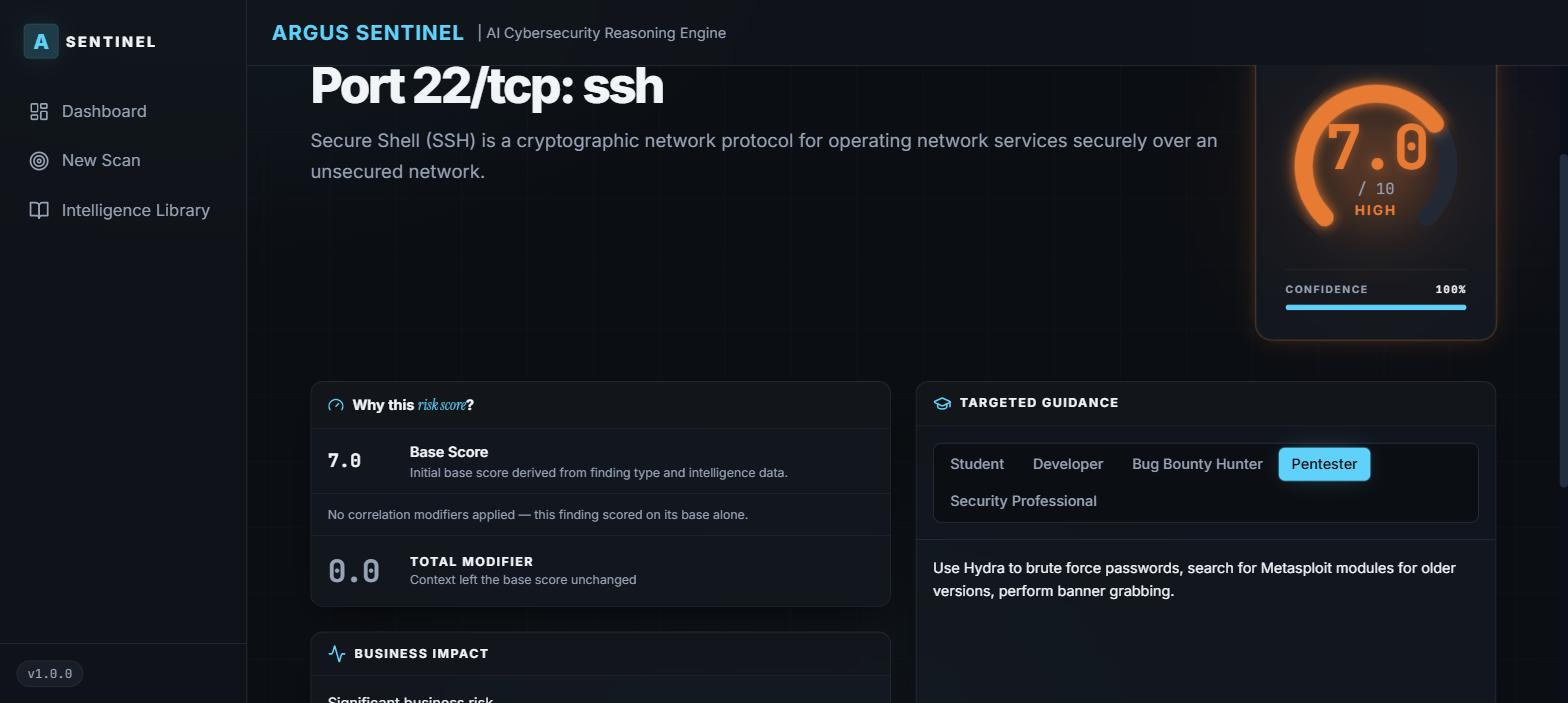
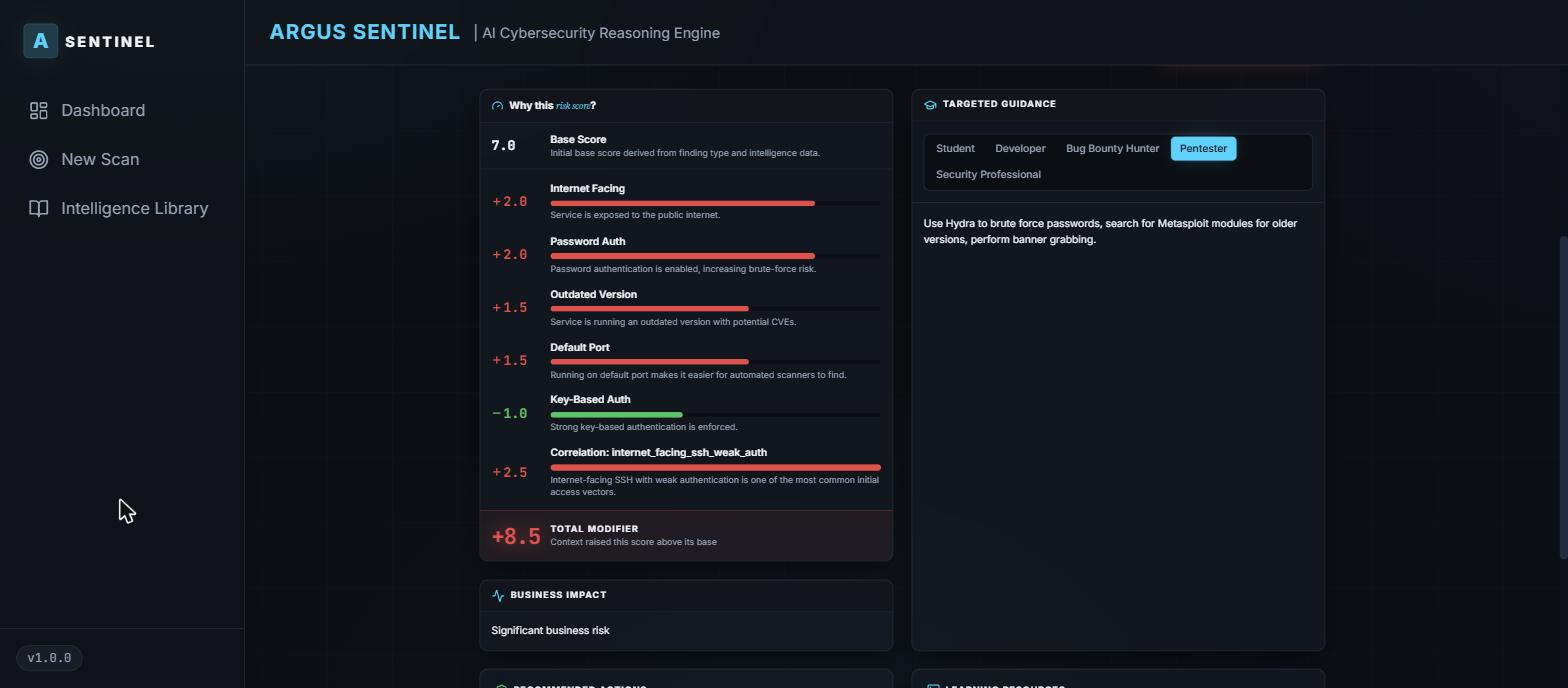
fix: correlation modifiers now fire and persist on real scans
- scan_tasks: pass a copy of reasoning_breakdown to apply_modifiers.
  Appending to the ORM's own list and reassigning the same object was
  invisible to SQLAlchemy's JSON change detection, so correlation rows
  were silently dropped even when a rule fired.
- open_database_no_auth: require the database finding itself to be
  unauthenticated (was any finding scan-wide, e.g. anonymous FTP), and
  have nmap's redis-info script supply that signal.
- Remove firewall_mitigates_exposure (nmap runs --open, so "filtered" is
  never reported) and waf_mitigates_web_vulns (nuclei's tag scope never
  runs xss/sqli templates) - both structurally unreachable.
- Add a Postgres-backed test that feeds real captured tool output through
  the real scanner parsers, scoring and storage, and checks every
  remaining rule produces a stored modifier.
- README: per-rule reachability table; persona screenshots now show a
  real scanme.nmap.org SSH finding with its correlation modifier.

diff --git a/backend/tests/test_scan_tasks.py b/backend/tests/test_scan_tasks.py
@@ -223,3 +223,103 @@ def test_prune_demo_scans_is_a_noop_with_nothing_expired(clean_db):
 
     assert result == {"pruned": 0}
     assert _fetch_scan(sync_engine, fresh_demo_id) is not None
+
+
+def _fetch_findings(sync_engine, scan_id):
+    with sync_engine.begin() as conn:
+        rows = conn.execute(
+            text("SELECT title, risk_score, correlation_modifier, final_risk_score, reasoning_breakdown "
+                 "FROM findings WHERE scan_id = :id"),
+            {"id": scan_id},
+        ).mappings().all()
+    return {r["title"]: r for r in rows}
+
+
+def test_correlation_modifier_is_persisted(clean_db):
+    """Plumbing guard: a finding that must trigger a correlation rule has
+    that rule's modifier in its stored correlation_modifier, final_risk_score
+    AND reasoning_breakdown — i.e. what the API and frontend actually read."""
+    from app.tasks.scan_tasks import run_scan
+
+    scan_id = _insert_pending_scan(clean_db["sync_engine"])
+    admin = _no_finding("httpx", "technology", "Live Host: http://example.com/admin",
+                        {"url": "http://example.com/admin", "admin_panel_exposed": True})
+
+    with patch("app.scanners.subfinder.run", new=AsyncMock(return_value=([], {"status": "success", "detail": None}))), \
+         patch("app.scanners.httpx.run", new=AsyncMock(return_value=([admin], {"status": "success", "detail": None}))), \
+         patch("app.scanners.nmap.run", new=AsyncMock(return_value=([], {"status": "success", "detail": None}))), \
+         patch("app.scanners.nuclei.run", new=AsyncMock(return_value=([], {"status": "success", "detail": None}))):
+        run_scan(scan_id, "example.com", "student")
+
+    row = _fetch_findings(clean_db["sync_engine"], scan_id)["Live Host: http://example.com/admin"]
+    assert row["correlation_modifier"] == 1.5
+    assert row["final_risk_score"] == row["risk_score"] + 1.5
+    assert any(b["label"] == "Correlation: admin_panel_exposed" for b in row["reasoning_breakdown"])
+
+
+# Real tool output captured from live runs (2026-09-23): the SSH script output
+# and nuclei record are verbatim from a real scanme.nmap.org scan, the
+# redis-info output is verbatim from nmap against an auth-less Redis.
+_REAL_NMAP_XML = """<?xml version="1.0"?>
+<nmaprun><host><status state="up"/>
+<address addr="45.33.32.156" addrtype="ipv4"/>
+<ports>
+<port protocol="tcp" portid="22"><state state="open"/>
+<service name="ssh" product="OpenSSH" version="6.6.1p1 Ubuntu 2ubuntu2.13"/>
+<script id="ssh-auth-methods" output="&#xa;  Supported authentication methods: &#xa;    publickey&#xa;    password"/></port>
+<port protocol="tcp" portid="80"><state state="open"/>
+<service name="http" product="Apache httpd" version="2.4.7"/></port>
+<port protocol="tcp" portid="6379"><state state="open"/>
+<service name="redis" product="Redis key-value store" version="7.4.9"/>
+<script id="redis-info" output="&#xa;  Version: 7.4.9&#xa;  Operating System: Linux 6.6.114.1-microsoft-standard-WSL2 x86_64&#xa;  Architecture: 64 bits&#xa;  Role: master"/></port>
+</ports></host></nmaprun>"""
+
+_REAL_NUCLEI_LINE = (
+    '{"template-id": "apache-mod-negotiation-listing", "info": {"name": "Apache mod_negotiation - Pseudo Directory Listing", '
+    '"tags": ["apache", "misconfig", "exposure", "mod-negotiation"], "severity": "low"}, "type": "http", '
+    '"host": "example.com", "matched-at": "http://example.com/index", "ip": "45.33.32.156"}'
+)
+
+_HTTPX_LINES = "\n".join([
+    '{"url": "http://example.com", "title": "Go ahead and ScanMe!", "status_code": 200, "tech": ["Apache HTTP Server:2.4.7", "Ubuntu"]}',
+    '{"url": "http://example.com:8080", "title": "Admin Login", "status_code": 200, "tech": ["Apache HTTP Server:2.4.7"]}',
+])
+
+
+def _subprocess_output(stdout):
+    return AsyncMock(return_value=(stdout, "", {"status": "success", "detail": None}))
+
+
+def test_every_correlation_rule_fires_through_the_real_pipeline(clean_db, caplog):
+    """Real scanner parsers + processor + correlation + DB, with only the
+    tool subprocesses and DNS lookups faked. Every remaining rule must come
+    out the other end as a stored, nonzero modifier (or, for the scan-wide
+    multiple_high_severity rule, in the engine's matched-rules log line)."""
+    import logging
+    from app.tasks.scan_tasks import run_scan
+
+    scan_id = _insert_pending_scan(clean_db["sync_engine"])
+    dns_a = {"legacy-app.herokuapp.com": None}  # CNAME target gone -> dangling
+    with patch("app.scanners.subfinder.run_subprocess", new=_subprocess_output("legacy.example.com\n")), \
+         patch("app.scanners.subfinder._resolve_a", side_effect=lambda h: dns_a.get(h)), \
+         patch("app.scanners.subfinder._resolve_cname",
+               side_effect=lambda h: "legacy-app.herokuapp.com" if h == "legacy.example.com" else None), \
+         patch("app.scanners.httpx.run_subprocess", new=_subprocess_output(_HTTPX_LINES)), \
+         patch("app.scanners.nmap.run_subprocess", new=_subprocess_output(_REAL_NMAP_XML)), \
+         patch("app.scanners.nuclei.run_subprocess", new=_subprocess_output(_REAL_NUCLEI_LINE)), \
+         caplog.at_level(logging.INFO, logger="app.tasks.scan_tasks"):
+        run_scan(scan_id, "example.com", "student")
+
+    rows = _fetch_findings(clean_db["sync_engine"], scan_id)
+
+    def corr(title):
+        return {b["label"].removeprefix("Correlation: "): b["modifier"]
+                for b in rows[title]["reasoning_breakdown"] if b["label"].startswith("Correlation: ")}
+
+    assert corr("Port 6379/tcp: redis") == {"open_database_no_auth": 3.0}
+    assert corr("Port 22/tcp: ssh") == {"internet_facing_ssh_weak_auth": 2.5}
+    assert corr("Apache mod_negotiation - Pseudo Directory Listing: http://example.com/index") == {"outdated_stack_with_vuln": 2.0}
+    assert corr("Live Host: http://example.com:8080") == {"admin_panel_exposed": 1.5}
+    assert corr("Subdomain: legacy.example.com") == {"subdomain_takeover_critical": 3.0}
+    assert rows["Port 6379/tcp: redis"]["correlation_modifier"] == 3.0
+    assert "multiple_high_severity" in caplog.text

diff --git a/backend/app/engines/correlation.py b/backend/app/engines/correlation.py
@@ -28,13 +28,10 @@ class CorrelationEngine:
         result = CorrelationResult()
         
         db_findings = []
-        any_no_auth = False
         ssh_findings = []
         high_sev_count = 0
         tech_outdated_findings = []
         vuln_findings = []
-        web_vuln_findings = []
-        any_waf = False
 
         for f in findings:
             raw = f.get("raw_data", {})
@@ -45,14 +42,12 @@ class CorrelationEngine:
             if risk_score >= 6.1:
                 high_sev_count += 1
             
-            if raw.get("no_authentication"):
-                any_no_auth = True
-            
-            if raw.get("waf_detected"):
-                any_waf = True
-                
+            # The database finding itself must be unauthenticated — not just
+            # any finding anywhere in the scan (an anonymous FTP server says
+            # nothing about whether Redis next to it wants a password).
             port = raw.get("port")
-            if port in [3306, 6379] or "mysql" in title.lower() or "redis" in title.lower():
+            is_db = port in [3306, 6379] or "mysql" in title.lower() or "redis" in title.lower()
+            if is_db and raw.get("no_authentication"):
                 db_findings.append(f)
                 
             if port == 22 or "ssh" in title.lower():
@@ -68,11 +63,9 @@ class CorrelationEngine:
                 
             if f_type == "vulnerability":
                 vuln_findings.append(f)
-                if "xss" in title.lower() or "sql injection" in title.lower() or "sqli" in title.lower():
-                    web_vuln_findings.append(f)
 
         # Rule 1
-        if db_findings and any_no_auth:
+        if db_findings:
             result.correlations_found.append(CorrelationMatch(
                 rule_name="open_database_no_auth",
                 matched_findings=[f["title"] for f in db_findings],
@@ -111,7 +104,7 @@ class CorrelationEngine:
                 explanation="Outdated technology with known vulnerabilities significantly increases exploitation likelihood."
             ))
 
-        # Rules 5, 6, 8
+        # Rules 5, 6
         for f in findings:
             raw = f.get("raw_data", {})
             if raw.get("admin_panel_exposed"):
@@ -121,13 +114,6 @@ class CorrelationEngine:
                     modifier=1.5,
                     explanation="Exposed admin panels are high-value targets for brute force and authentication bypass attacks."
                 ))
-            if raw.get("firewall_restricted") and raw.get("internet_facing"):
-                result.correlations_found.append(CorrelationMatch(
-                    rule_name="firewall_mitigates_exposure",
-                    matched_findings=[f["title"]],
-                    modifier=-1.5,
-                    explanation="Firewall restrictions reduce the exploitability of internet-facing services."
-                ))
             if f.get("type", "").lower() == "subdomain" and raw.get("takeover_possible"):
                 result.correlations_found.append(CorrelationMatch(
                     rule_name="subdomain_takeover_critical",
@@ -135,15 +121,6 @@ class CorrelationEngine:
                     modifier=3.0,
                     explanation="Subdomain takeover allows an attacker to serve malicious content under your trusted domain."
                 ))
-
-        # Rule 7
-        if any_waf and web_vuln_findings:
-            result.correlations_found.append(CorrelationMatch(
-                rule_name="waf_mitigates_web_vulns",
-                matched_findings=[f["title"] for f in web_vuln_findings],
-                modifier=-1.0,
-                explanation="A WAF provides partial mitigation for common web vulnerabilities."
-            ))
 
         # Determine amplified/mitigated findings
         amplified = set()

diff --git a/backend/tests/test_correlation.py b/backend/tests/test_correlation.py
@@ -49,23 +49,18 @@ def test_multiple_high_severity_triggers():
     assert any(c.rule_name == "multiple_high_severity" for c in result.correlations_found)
     assert result.combined_risk_level == "critical"  # Max is 8.0 + 1.5 = 9.5 -> critical
 
-def test_firewall_mitigates():
+def test_open_database_needs_the_database_itself_unauthenticated():
+    # Anonymous FTP elsewhere in the scan must not make a password-protected
+    # Redis count as "no auth" — the old scan-wide flag did exactly that.
     engine = CorrelationEngine()
     findings = [
-        {
-            "type": "service",
-            "title": "Internal App",
-            "raw_data": {"internet_facing": True, "firewall_restricted": True},
-            "risk_score": 6.0,
-            "reasoning_breakdown": []
-        }
+        {"type": "port", "title": "Port 6379/tcp: redis", "risk_score": 5.0,
+         "raw_data": {"port": 6379}, "reasoning_breakdown": []},
+        {"type": "port", "title": "Port 21/tcp: ftp", "risk_score": 4.0,
+         "raw_data": {"port": 21, "no_authentication": True}, "reasoning_breakdown": []},
     ]
     result = engine.correlate(findings)
-    assert any(c.rule_name == "firewall_mitigates_exposure" for c in result.correlations_found)
-    assert "Internal App" in result.mitigated_findings
-    
-    updated = engine.apply_modifiers(findings, result)
-    assert updated[0]["final_risk_score"] == 4.5
+    assert not any(c.rule_name == "open_database_no_auth" for c in result.correlations_found)
 
 def test_subdomain_takeover_critical():
     engine = CorrelationEngine()

diff --git a/backend/app/scanners/nmap.py b/backend/app/scanners/nmap.py
@@ -60,6 +60,13 @@ def _parse_auth_signals(scripts: dict) -> dict:
     if ftp_anon_output and "anonymous ftp login allowed" in ftp_anon_output.lower():
         signals["no_authentication"] = True
 
+    # redis-info only gets a "Version:" line back if Redis answered INFO
+    # without auth; against a requirepass instance the script prints nothing
+    # (checked live against both kinds of Redis).
+    redis_info_output = scripts.get("redis-info")
+    if redis_info_output and "version:" in redis_info_output.lower():
+        signals["no_authentication"] = True
+
     return signals
 
 
@@ -67,7 +74,7 @@ async def run(targets: list[str]) -> tuple[list[dict], dict]:
     hostnames = [normalize_target(t) for t in targets]
     logger.info(f"Starting nmap scan for {len(hostnames)} target(s)")
     command = [
-        "/usr/bin/nmap", "-sV", "--script=default,ssh-auth-methods,banner",
+        "/usr/bin/nmap", "-sV", "--script=default,ssh-auth-methods,banner,redis-info",
         "-T4", "--open", "-oX", "-", *hostnames,
     ]
     findings = []

diff --git a/backend/app/tasks/scan_tasks.py b/backend/app/tasks/scan_tasks.py
@@ -140,7 +140,11 @@ def run_scan(scan_id: str, target: str, audience: str):
                     "raw_data": f.raw_data,
                     "risk_score": f.risk_score,
                     "severity": f.severity,
-                    "reasoning_breakdown": f.reasoning_breakdown,
+                    # A copy, not the ORM's own list: apply_modifiers appends to
+                    # it in place, and reassigning the *same* list object back
+                    # onto the JSON column is invisible to SQLAlchemy's change
+                    # detection, so the correlation rows were silently dropped.
+                    "reasoning_breakdown": list(f.reasoning_breakdown),
                     "final_risk_score": f.final_risk_score,
                     "correlation_modifier": f.correlation_modifier
                 })

diff --git a/backend/tests/test_scanners.py b/backend/tests/test_scanners.py
@@ -157,7 +157,7 @@ def test_nmap_argv():
 
     assert isinstance(captured["command"], list)
     assert captured["command"] == [
-        "/usr/bin/nmap", "-sV", "--script=default,ssh-auth-methods,banner",
+        "/usr/bin/nmap", "-sV", "--script=default,ssh-auth-methods,banner,redis-info",
         "-T4", "--open", "-oX", "-", "example.com", "sub.example.com",
     ]
 

diff --git a/README.md b/README.md
@@ -22,7 +22,7 @@ Argus Sentinel is a self-hosted web recon tool: point it at a target and it runs
 
 - **Real sequential recon pipeline** — subfinder discovers subdomains, httpx confirms which are actually live and fingerprints their technology, and nmap/nuclei then only scan what httpx confirmed live — not four tools fired blind and independently.
 - **Scan-history diffing** — rerun a target and every scan is compared against a previous one: what's **NEW**, what's **RESOLVED**, and what **CHANGED** (old and new risk score side by side). Pick any earlier scan of the same target to compare against.
-- **Correlation & reasoning scoring engine** — every finding ships with a `reasoning_breakdown`: a base score plus labeled modifiers (internet-facing, no authentication, outdated version, admin panel exposed, and more), so you see *why* a score is what it is, not just a severity label.
+- **Correlation & reasoning scoring engine** — every finding ships with a `reasoning_breakdown`: a base score plus labeled modifiers (e.g. internet-facing, password auth enabled, outdated version, default port) and any cross-finding correlation rules that fired, so you see *why* a score is what it is, not just a severity label.
 - **Audience-specific guidance** — the same finding reads differently for a Student, Developer, Bug Bounty Hunter, Pentester, or Security Professional; pick who's reading and the guidance adapts.
 - **51-entry intelligence library** — a real, verified JSON knowledge base (25 services, 12 technologies, 14 vulnerability classes) the scoring engines actually read from at scan time, and browsable directly in the UI.
 - **Dashboard** — severity distribution, finding-type breakdown, and scan history across every target you've scanned.
@@ -73,7 +73,7 @@ Two real scans of `scanme.nmap.org`, compared: two ports/checks that newly appea
 
 ### Why this risk score + audience-specific guidance
 
-The same real finding (SSH on `scanme.nmap.org`, 7.0 HIGH) with its score breakdown, viewed as a **Student** (left) and as a **Pentester** (right) — the score and evidence stay fixed, the guidance changes for who's reading.
+A real finding from a real scan of `scanme.nmap.org`: SSH on port 22, OpenSSH 6.6.1 with password auth enabled. Base score 7.0, then five reasoning modifiers from what nmap actually reported, plus the `internet_facing_ssh_weak_auth` correlation rule (+2.5). The total is +8.5, so the final score is capped at 10.0 CRITICAL. It's shown as a **Student** (left) and as a **Pentester** (right): the score and evidence stay fixed, and the guidance changes for who's reading.
 
 <p>
   <img src="docs/screenshots/persona-student.jpg" width="49%" alt="Finding Detail for SSH on port 22 with the Student persona selected: a plain-language explanation">
@@ -102,7 +102,18 @@ subfinder's output feeds httpx so every discovered subdomain gets a liveness che
 Raw scanner output alone isn't a finding — it's an input. Three engines turn it into something explainable:
 
 - **Reasoning Engine** — assigns a deterministic base risk score per finding type (port/service, vulnerability, technology, subdomain), then applies labeled modifiers (internet-facing, no authentication, outdated version, admin panel exposed, WAF detected, etc.) sourced from the scanner's raw output and the matching intelligence library entry. Every score ships with a `reasoning_breakdown` array showing exactly which modifiers fired and why.
-- **Correlation Engine** — looks across all of a scan's findings together, not just one at a time (e.g. an exposed database *and* no authentication together is worse than either alone), and applies scan-wide modifiers on top of each finding's own reasoning score.
+- **Correlation Engine** — looks across all of a scan's findings together, not just one at a time, and adds a modifier on top of a finding's own reasoning score when a specific combination shows up. There are six rules, each driven only by signals the four scanners actually produce:
+
+  | Rule | Fires when | Modifier | Seen on a real scan? |
+  |---|---|---|---|
+  | `internet_facing_ssh_weak_auth` | nmap sees SSH on a public IP and `ssh-auth-methods` lists `password` | +2.5 | ✅ scanme.nmap.org |
+  | `outdated_stack_with_vuln` | nmap/httpx detect a version below the library's `min_secure_version`, and nuclei reports a vulnerability in the same scan | +2.0 per vuln | ✅ scanme.nmap.org (OpenSSH 6.6.1) |
+  | `open_database_no_auth` | nmap's `redis-info` gets server info back from Redis without credentials | +3.0 | Checked against a real auth-less Redis; no public target scanned |
+  | `admin_panel_exposed` | httpx finds a live URL whose path or page title looks like an admin/login panel | +1.5 | Pipeline-tested only |
+  | `subdomain_takeover_critical` | subfinder finds a subdomain CNAME'd to a known third-party host that no longer resolves | +3.0 | Pipeline-tested only |
+  | `multiple_high_severity` | ≥3 findings scoring ≥6.1 (raises the scan's combined risk, not any single finding) | +1.5 | Pipeline-tested only |
+
+  "Pipeline-tested" means a Postgres-backed test feeds real-shaped tool output through the actual scanner parsers, scoring, and storage, and checks the modifier comes out the other end (`test_every_correlation_rule_fires_through_the_real_pipeline`). The bundled Juice Shop target triggers none of them, which is correct: it has no SSH or database ports, nmap can't version its Node service, and its title isn't an admin page.
 - **Confidence Engine** — separately scores how *certain* a finding is (scanner reliability + corroborating evidence + intelligence-library match), independent of how severe it is — a finding can be high-confidence and low-severity, or the reverse.
 
 All three are backed by **`argus-intelligence/`**, a 51-entry JSON knowledge base (25 services, 12 technologies, 14 vulnerability classes) that the scoring engines look up by scanner-reported name/product — not a hardcoded lookup table inline in the scoring code.
